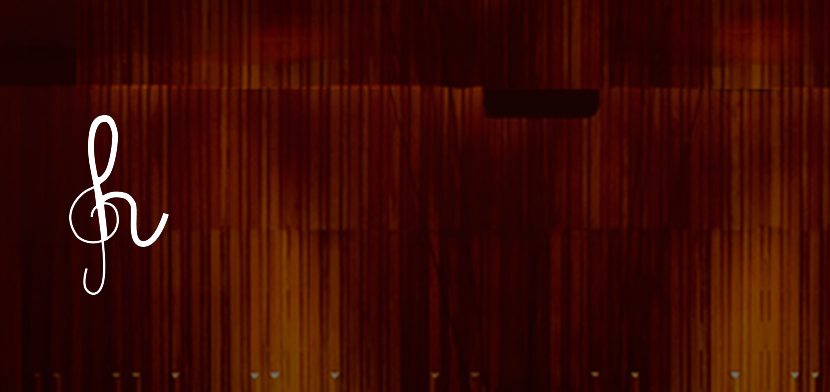
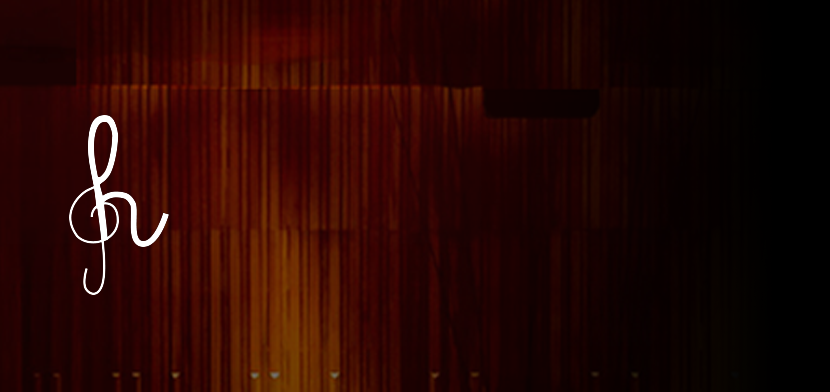
Updated portfolio site
now contains more items and looks better

diff --git a/portfolio.html b/portfolio.html
@@ -28,23 +28,75 @@
     <main> 
         <!-- // Portfolio -->
         <section>
+            <!-- item -->
             <div >
                 <img  class="thumbnail" src="images/ted_thumb.png" >
             </div>
         	<div class="content-wrap text">
-	            <h2>Work</h2>
-
-	            <!-- item -->
+                <h2>Work</h2>
 	            <h3>Graphic Design at TEDxYouth @Bratislava</h3>
 	            <h4 class="lighter">September 2017 – June 2018</h4>
 	            
 	            <p class="description">
 	            	<li>design of event identity</li>
-	            	<li>advertisement design for the conference - title pages, social network graphics</li>
+	            	<li>topic of conference: "Look at the world with no filters"</li>
 	            	<li>product design of merchandise</li>
 	            	<a href="" class="btn">Read More</a>                
-	            <!-- end of item-->
+	            
             </div>  
+            <!-- end of item-->
+            
+            <!-- item -->
+            
+        	<div class="content-wrap2 text2">
+	            <h3>Bespoke Design for Hallmark</h3>
+	            <h4 class="lighter">December 2018 - January 2019</h4>
+	            
+	            <p class="description">
+	            	<li>user experience design of a gift-giving experience</li>
+	            	<li>complete design process from research to product</li>
+	            	<li>work with a client - Hallmark</li>
+	            	<a href="" class="btn">Read More</a>                
+            </div>  
+            <div >
+                <img  class="thumbnail2" src="images/bespoke_thumb.png" >
+            </div>
+            <!-- end of item-->
+            
+            <!-- item -->
+            <div >
+                <img  class="thumbnail" src="images/ted_thumb.png" >
+            </div>
+        	<div class="content-wrap text">
+                <h2>Work</h2>
+	            <h3>Graphic Design at TEDxYouth @Bratislava</h3>
+	            <h4 class="lighter">September 2017 – June 2018</h4>
+	            
+	            <p class="description">
+	            	<li>design of event identity</li>
+	            	<li>topic of conference: "Look at the world with no filters"</li>
+	            	<li>product design of merchandise</li>
+	            	<a href="" class="btn">Read More</a>                
+	            
+            </div>  
+            <!-- end of item-->
+            
+            <!-- item -->
+            
+        	<div class="content-wrap2 text2">
+	            <h3>Website design - The Hague Orchestra</h3>
+	            <h4 class="lighter">Fall 2018</h4>
+	            
+	            <p class="description">
+	            	<li>graphic design of a website</li>
+	            	<li>university assignment</li>
+	            	<a href="" class="btn">Read More</a>                
+	            
+            </div>  
+            <div >
+                <img  class="thumbnail2" src="images/tho_thumbnail.png" >
+            </div>
+            <!-- end of item-->
             
         </section>
         

diff --git a/css/portfolio.css b/css/portfolio.css
@@ -82,16 +82,15 @@ a:hover{
 	text-decoration: none;
 }
 
-ul li{
-	list-style: circle;
-}
-
-ul li:nth-child(2n+2){
-	list-style: disc;
-}
-
 .content-wrap{
 	margin: 0 5%;
+	padding: 65px 0px;
+	overflow:hidden;
+}
+
+.content-wrap2{
+    right:0;
+	margin: 0;
 	padding: 65px 0px;
 	overflow:hidden;
 }
@@ -139,12 +138,6 @@ header h2 {
 	font-weight: 500;
 }
 
-.profile-img{
-	width: 300px;
-	border-radius: 50%;
-	padding: 5px;
-	background: #FBECEC
-}
 
 .up{
 	display:none;
@@ -219,9 +212,28 @@ nav a{
 }
 
 .thumbnail{
+    background:linear-gradient(to left,rgba(0,0,0,1),rgba(0,0,0,0));
     right:0;
     z-index: -100;
     position:absolute;
+    height:600px;
+    display:inline-block;
+}
+
+.text2{
+    position:absolute;
+    right:0;
+    background:linear-gradient(to left,rgba(0,0,0,1),rgba(0,0,0,0));
+    background-size:cover;
+	color: #FFFFFF;
+	font-family: 'Fira Sans Light', sans-serif;
+    width:45%;
+    height:600px;
+}
+
+.thumbnail2{
+    background:linear-gradient(to right,rgba(0,0,0,1),rgba(0,0,0,0));
+    z-index: -100;
     height:600px;
     display:inline-block;
 }
